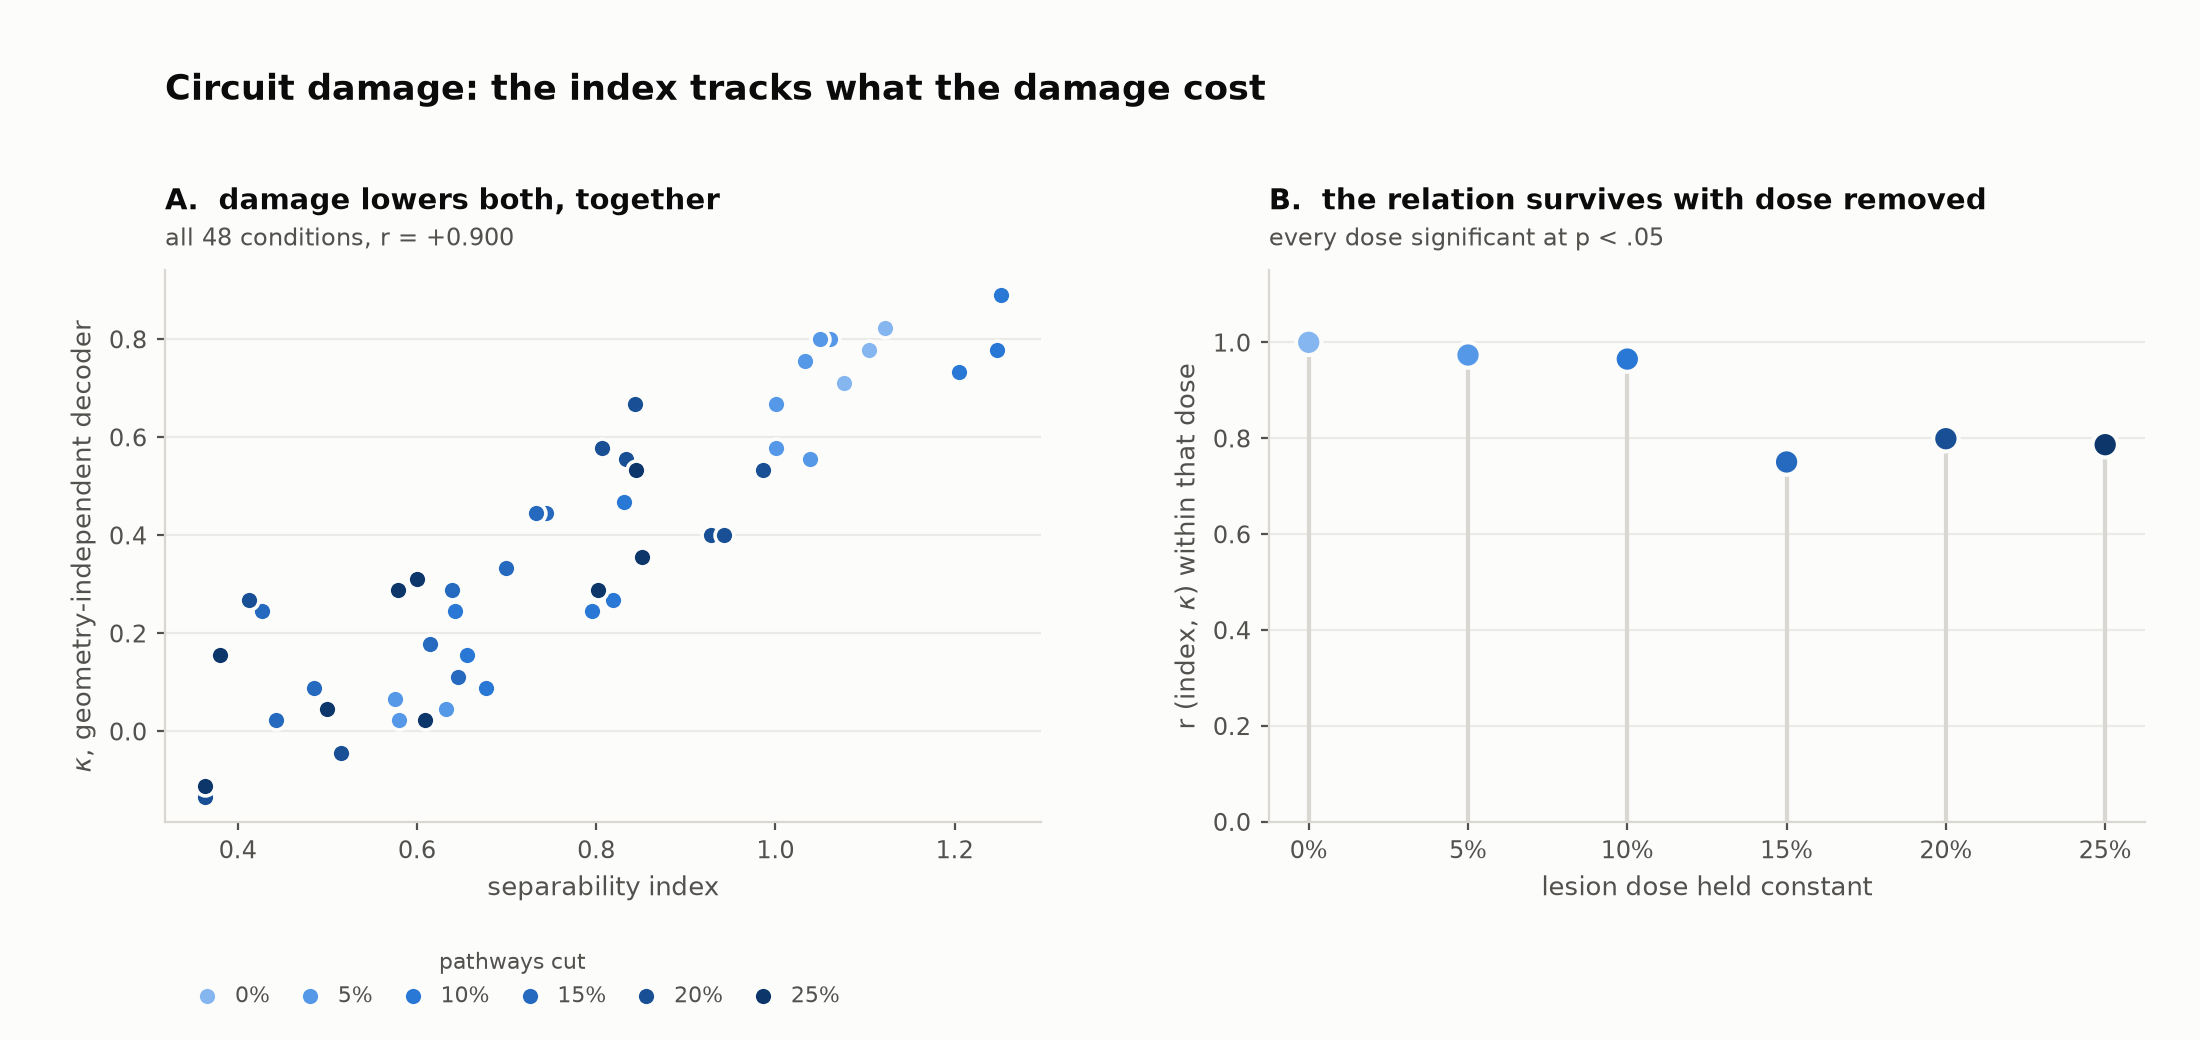
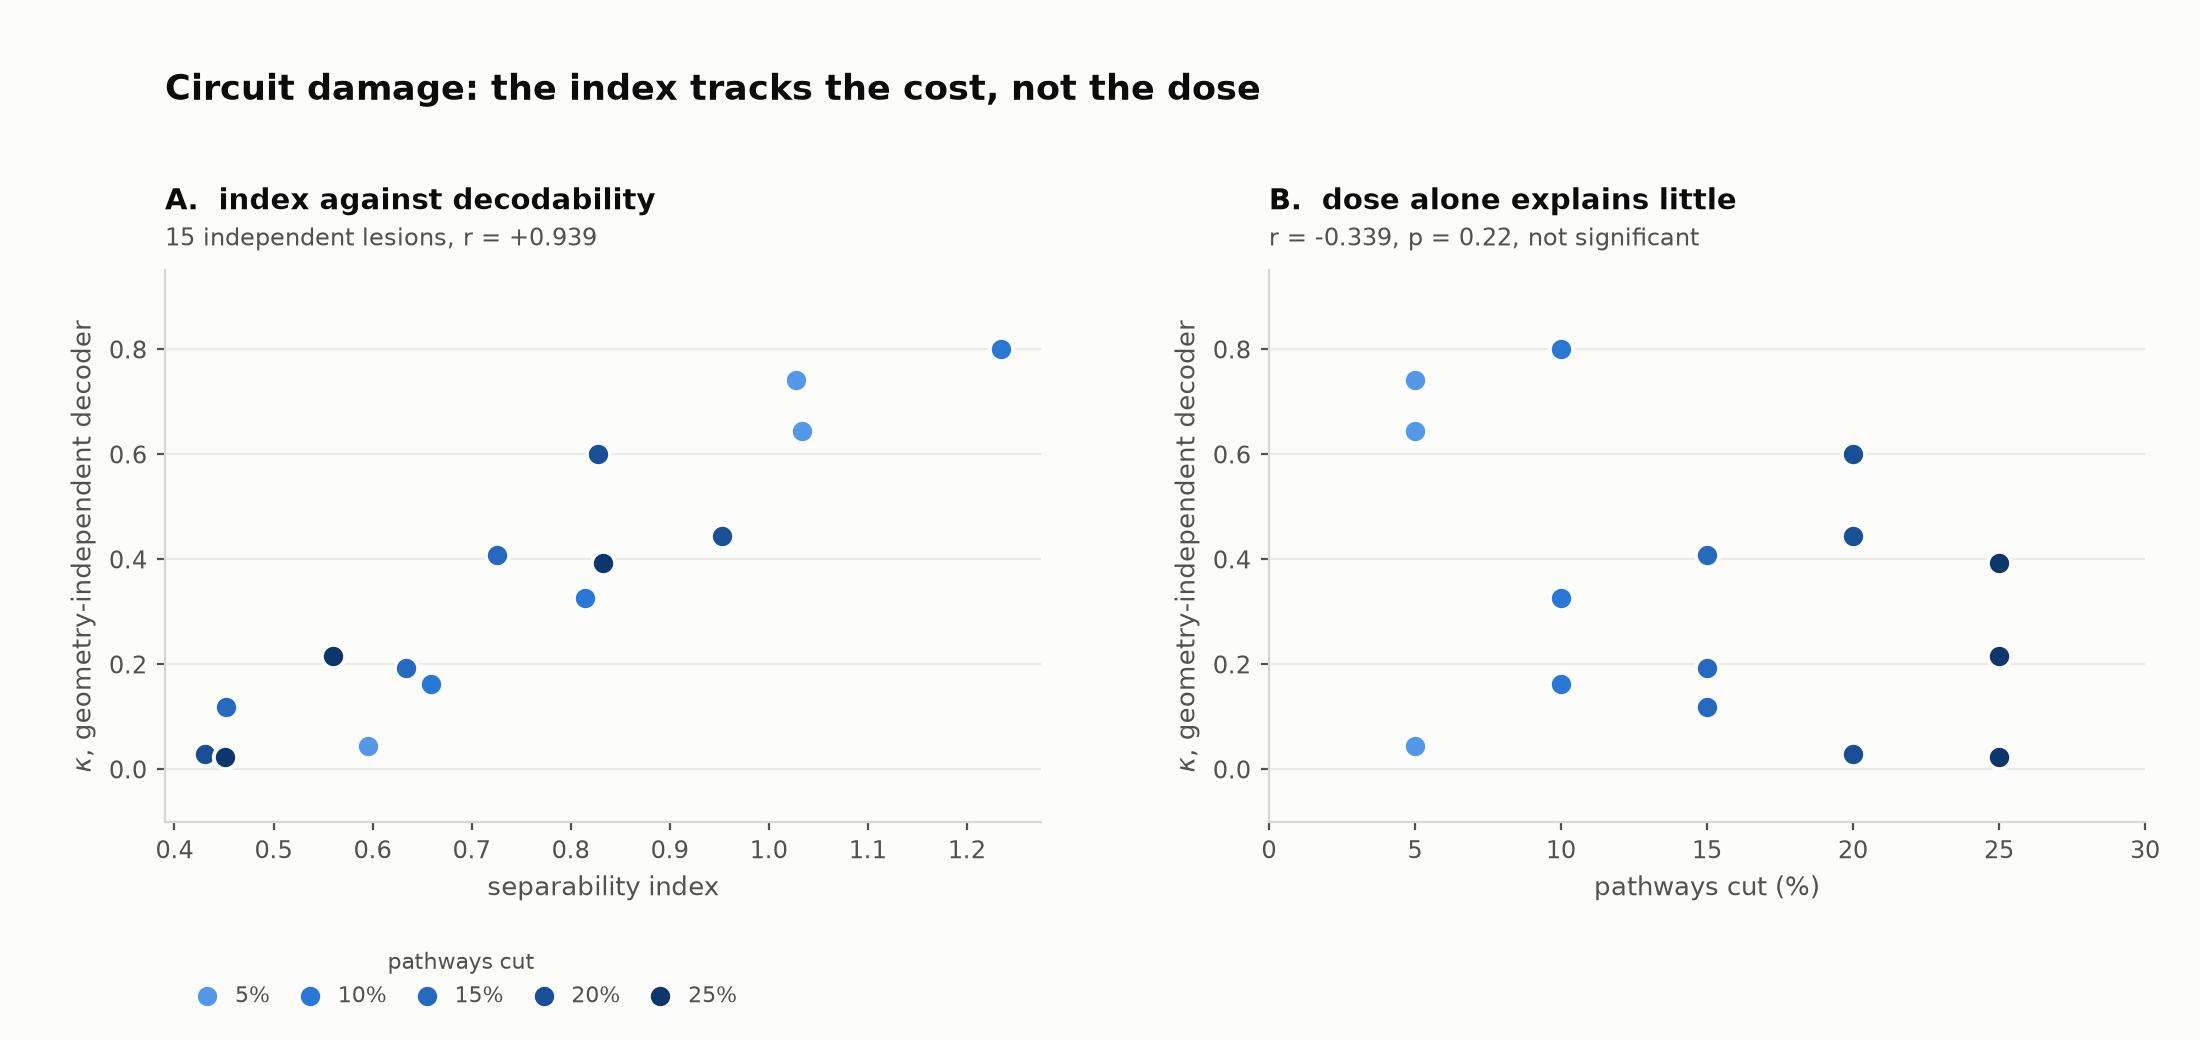
reanalyse on independent lesions; partial correlation for dose; deflate specificity claim

diff --git a/README.md b/README.md
@@ -14,11 +14,11 @@ pathway and see what the loss was worth.
 
 In a connectome-constrained model you can. This repository does that.
 
-**The short answer.** The index tracks decodability (pooled *r* = +0.93 over three
-independently trained networks), it keeps tracking it when lesion dose is held
-constant, and, in the test that actually needed the ground truth, it **fires on
-damage that costs decodability and stays quiet on damage of the same size that
-doesn't**.
+**The short answer.** The index tracks decodability (combined *r* = +0.96 over three
+independently trained networks, 45 independent lesions), it keeps tracking it when
+lesion dose is partialled out, and, in the test that actually needed the ground
+truth, it **fires on damage that costs decodability and stays quiet on damage of
+the same size that doesn't**.
 
 ---
 
@@ -49,25 +49,30 @@ in step (ρ = +0.93 against the geometry-independent decoder). The index is *not
 merely a restatement of the Riemannian decoder; the geometry-independent one
 agrees at least as well.
 
-### 2. Under circuit damage, at fixed dose
+### 2. Under circuit damage, and not because of the dose
 
 ![damage](figures/02_damage_axis.png)
 
-Deleting 0-25 % of pathways at a non-saturated operating point: *r* = +0.90 overall.
-The control that matters is on the right: recomputing the correlation **within each
-lesion dose**, where the amount of damage is identical and only *which* pathways
-were cut differs. Significant at every dose. The index is not tracking the dose; it
-is tracking what a particular pattern of damage destroyed.
+Deleting 0-25 % of pathways at a non-saturated operating point. The unit of
+analysis is one lesion, with its three observation-noise draws averaged, giving 15
+independent lesions per network: *r* = +0.939 for this one.
 
-Variation across *which* pathways were cut (SD 0.27) exceeds variation across *how
-many* (SD 0.20).
+The control that matters is on the right. Dose by itself predicts κ only weakly
+(*r* = -0.34, p = 0.22, not significant), and the **partial correlation with dose
+removed is +0.934** (p = 1.1e-06, df = 12), essentially unchanged. The index is not
+tracking how much was cut; it is tracking what that particular cut destroyed.
+
+Variation in κ across *which* pathways were cut (SD 0.27) exceeds variation across
+*how many* (SD 0.20).
 
 ### 3. It replicates across the ensemble
 
 ![ensemble](figures/03_ensemble_replication.png)
 
 Three independently trained networks. Pooled *r* = +0.934, ρ = +0.950 (n = 144),
-and **15 of 15 within-dose tests significant**.
+Partial correlations with dose removed are +0.934, +0.966 and +0.957, each
+p < 2e-06 at df = 12, so the relationship is not a dose-response artifact in any of
+the three.
 
 ### 4. Specificity: it does not fire on damage that costs nothing
 
@@ -77,8 +82,20 @@ Anatomically targeted lesions (cut everything onto T4; onto T5; the canonical
 Mi1/Tm3/Mi4/Mi9 → T4 motion inputs; all photoreceptor output) each compared against
 **three random lesions of exactly the same size**.
 
-Seven targeted sets landed below every one of their matched random controls; the
-index flagged 7/7. Three did not; the index flagged 0/3. **Agreement 10/10.**
+Ten comparisons, and the index's verdict matched the decoder's on all ten. But two
+of the ten are **sanity checks, not tests**: cutting all photoreceptor output in a
+visual task, and cutting all input to both direction-selective families in a motion
+task, are guaranteed to be destructive, and a measure that missed them would simply
+be broken.
+
+The six informative comparisons are `onto T4`, `onto T5` and `T4 canonical input`
+in each of two networks. Of those, the decoder says three were destructive and
+three were not, and **the index called all six correctly, 6/6**. Under an exact
+null where the index must pick which three of six to flag, that is
+p = 1/C(6,3) = **0.05**. A weaker number than 10/10 would suggest, and the honest
+one. The balance is what makes it worth anything: three positives and three
+negatives means the result rests on the index saying **no**, not only on it saying
+yes.
 
 The clearest single case: cutting 35 pathways onto T5 in model 001 leaves κ at
 0.993 (intact 0.993) and the index at 1.760 (intact 1.757). Thirty-five pathways
@@ -122,6 +139,16 @@ behaviourally that zeroing `R1 → L1` moved L1 most. That passed on one model a
 *falsely failed* on another, because L1 is driven by R1-R6. It was replaced with a
 structural check: the sign vector implied by our grouping must equal flyvis's own
 `edges_sign`, 604/604, with a shuffled-order control that must fail.
+
+A third, after this repository was first published: the damage and ensemble
+results were analysed as though every row were an independent observation. They
+are not. Each lesion was measured under three observation-noise draws, so a
+correlation computed on all rows, and the per-dose tests built on them, counted
+three measurements of one lesion as three lesions. Reanalysed on independent
+lesions with dose partialled out, the relationship is stronger rather than weaker
+(*r* = +0.934 to +0.966 per model, each p < 2e-06), so the correction cost nothing
+except a claim that should never have been phrased as "15 of 15 tests". `docs/LOG.md`
+§5 carries the detail.
 
 ## What this does not establish
 

diff --git a/docs/LOG.md b/docs/LOG.md
@@ -129,19 +129,29 @@ the operating point for everything after.
 
 `code/05_damage_axis.py` · `figures/02_damage_axis.png` · `results/step4_fine.csv`
 
-0-25 % of the 604 pathways deleted, 3 lesion seeds × 3 noise seeds, 48 conditions,
-**0 at ceiling**. Overall *r* = +0.900 against the geometry-independent decoder.
+0-25 % of the 604 pathways deleted, 3 lesion seeds × 3 noise seeds, 48 rows,
+**0 at ceiling**.
 
-The control that matters, recomputed **within each lesion dose**: damage amount
-identical, only *which* pathways differ:
+**A correction to how this was first analysed.** The original version treated all
+48 rows as independent and reported a correlation within each lesion dose,
+"significant at every dose". Those 48 rows are 16 lesions each measured under 3
+observation-noise draws, so the three draws of one lesion are not independent
+observations, and an n = 9 p-value inside a dose treats them as if they were. That
+is pseudo-replication, and two visible symptoms followed from it: the per-dose
+result held under Pearson but was 14/15 under Spearman, and only 9 of 15 survived
+a Bonferroni correction the 15 tests needed and never got.
 
-| dose | 0 % | 5 % | 10 % | 15 % | 20 % | 25 % |
-|---|---|---|---|---|---|---|
-| r | +1.00 | +0.97 | +0.96 | +0.75 | +0.80 | +0.79 |
+The unit of analysis is now **one lesion**, with its noise draws averaged: 15
+independent lesions per model. For this model, *r* = **+0.939** (p = 2.2e-07).
 
-Significant at every dose. Variation in κ across lesion *seeds* within a dose
-(SD 0.268) exceeds variation across *doses* (SD 0.203): which pathways were cut
-matters more than how many.
+Dose is then removed properly rather than by stratifying into cells of three.
+Dose alone predicts κ weakly and not significantly (*r* = -0.339, p = 0.22), and
+the partial correlation holding dose constant is **+0.934** (p = 1.1e-06, df = 12),
+essentially identical to the raw value. The stronger claim survives the stricter
+analysis.
+
+Variation in κ across lesion *seeds* within a dose (SD 0.268) exceeds variation
+across *doses* (SD 0.203): which pathways were cut matters more than how many.
 
 ---
 
@@ -158,7 +168,20 @@ Three independently trained networks, same protocol, readout re-derived per mode
 | 002 | 0.800 | +0.945 | +0.919 |
 | pooled (n = 144) | n/a | **+0.934** | **+0.950** |
 
-**15 of 15 within-dose tests significant.**
+Those per-model values are computed on all 63 rows each and are therefore
+pseudo-replicated in the same way as §5. On **independent lesions** (noise draws
+averaged, 15 per model) the numbers are:
+
+| model | n | r | p | partial r, dose removed | p |
+|---|---|---|---|---|---|
+| 000 | 15 | +0.939 | 2.2e-07 | **+0.934** | 1.1e-06 |
+| 001 | 15 | +0.964 | 7.0e-09 | **+0.966** | 1.9e-08 |
+| 002 | 15 | +0.962 | 1.1e-08 | **+0.957** | 8.0e-08 |
+
+Fisher-z combined across the three models: *r* = **+0.956**, 95 % CI
+[+0.918, +0.977]. Three tests rather than fifteen, each far past any correction
+those three would need, and dose removed by partialling rather than by splitting
+into cells of three.
 
 A protocol finding worth recording: the SNR operating point does **not** transfer.
 At the same SNR = 1.0, intact κ was 0.770 / 0.993 / 0.800; model 001 is markedly
@@ -206,8 +229,29 @@ the same size:
 | 001 | ← photoreceptor | 44 | 0.478 | 0.030 | 0.812 | yes | yes |
 | 001 | → T4+T5 | 79 | 0.737 | 0.363 | 0.825 | yes | yes |
 
-Seven hurt; the index flagged 7/7. Three did not; the index flagged 0/3.
-**Agreement 10/10.** Pooled across all 126 conditions, *r* = +0.846, ρ = +0.921.
+Seven hurt; the index flagged 7/7. Three did not; the index flagged 0/3, ten out
+of ten.
+
+**How much of that is a real test.** Two of the ten are sanity checks rather than
+tests. Cutting all photoreceptor output in a visual task, and cutting all input to
+both direction-selective families in a motion task, are destructive by
+construction; a measure that missed them would be broken, and catching them is not
+evidence of discrimination. Dropping those leaves six informative comparisons:
+`onto T4`, `onto T5` and `T4 canonical input` in each of two models. The decoder
+calls three of the six destructive and three not, and the index calls all six the
+same way. Under an exact null where the index must choose which three of six to
+flag, p = 1/C(6,3) = **0.05**.
+
+A second deflation: the index and the decoder are already strongly correlated
+inside each four-point comparison set (mean Spearman +0.881, and exactly +1.00 in
+5 of the 10 sets), so agreement on "is the targeted point the lowest" is partly
+entailed by §5 and §6 rather than independent of them. The reason the six-way
+result is still worth stating is its balance: three positives and three negatives
+means it rests on the index correctly saying **no**, which a pure sensitivity
+result never shows.
+
+Pooled across all 126 rows, *r* = +0.846, ρ = +0.921, with the same
+pseudo-replication caveat as §5 and §6.
 
 **What is not claimed.** Which pathways matter is model-dependent: `onto_T4` is
 below all randoms in one network and inside the random range in the other. Two
